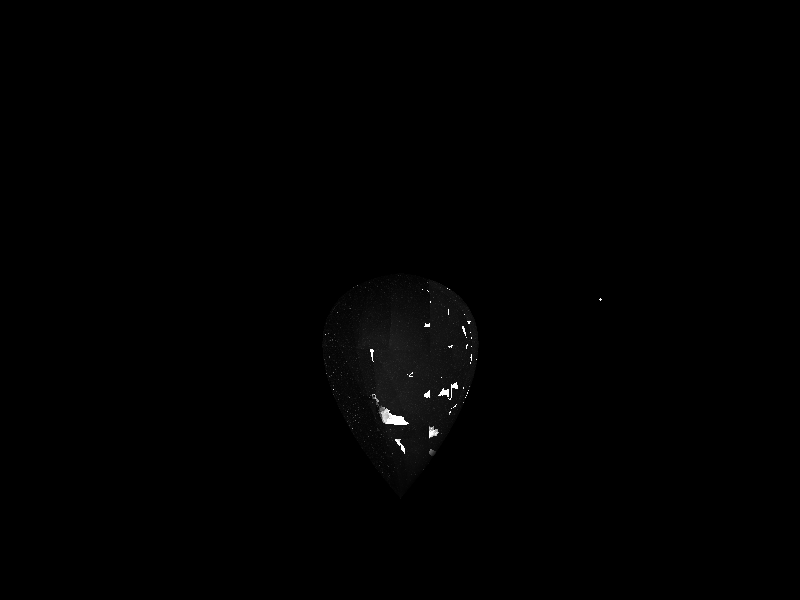
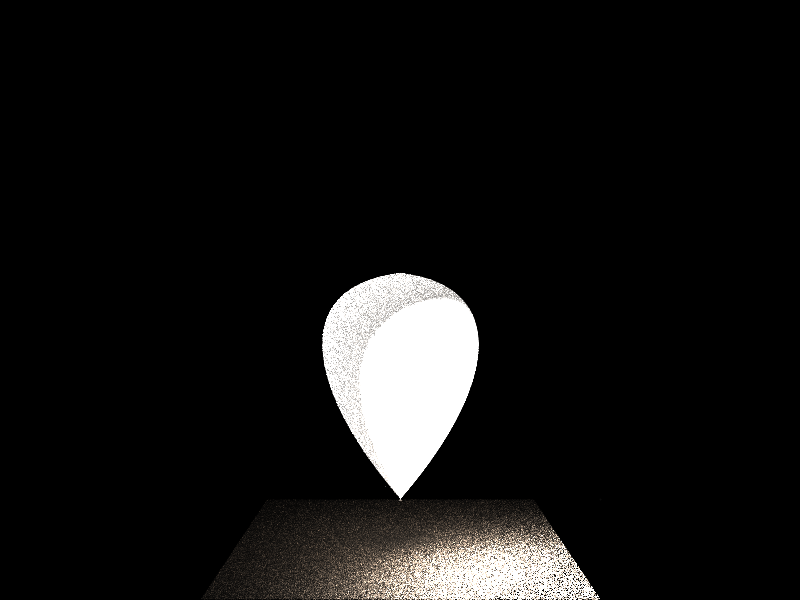
plane

Changed region(s): [[0.25, 0.45, 0.75, 1.0]]

diff --git a/src/main.cpp b/src/main.cpp
@@ -30,8 +30,9 @@ int main()
             for (int i = 0; i < RAY_PER_LIGHT; i++)
             {
                 ColoredRay ray(light->color, randSemisphere(randInBall(light->translate, light->radius), light->direction));
-                Trace::trace(surfaces, ray, DEPTH_PER_LIGHT, [](const SurfInterType &inter, const ColoredRay &ray, int) {
-                    if (inter.surf->isLightSource()) return false;
+                Trace::trace(surfaces, ray, DEPTH_PER_LIGHT, [](const SurfInterType &inter, const ColoredRay &ray, int depth) {
+                    if (inter.surf->isLightSource())
+                        return false;
                     const_cast<Surface*>(inter.surf)->photonMap->addRay(ColoredRay(ray.color, Ray(inter.pos, ray.ray.dir)));
                     // `st` must be on the surface
                     return true;
@@ -48,11 +49,14 @@ int main()
     for (int i = 0; i < SCREEN_WIDTH; i++)
         for (int j = 0; j < SCREEN_HEIGHT; j++)
         {
-            ColoredRay ray(
-                Vec3(1, 1, 1),
-                Ray(Vec3(0, -1000, 0), Vec3((i - SCREEN_WIDTH * 0.5) * RES_ANGLE, 1, (j - SCREEN_HEIGHT * 0.5) * RES_ANGLE))
-            );
             for (int k = 0; k < RAY_PER_PIXEL; k++)
+            {
+                float _i = i + rand01() - 0.5;
+                float _j = j + rand01() - 0.5;
+                ColoredRay ray(
+                    Vec3(1, 1, 1),
+                    Ray(Vec3(0, -1000, 0), Vec3((_i - SCREEN_WIDTH * 0.5) * RES_ANGLE, 1, (_j - SCREEN_HEIGHT * 0.5) * RES_ANGLE))
+                );
                 Trace::trace(surfaces, ray, DEPTH_PER_PIXEL, [i,j](const SurfInterType &inter, const ColoredRay &ray, int depth) {
                     if (inter.surf->isLightSource())
                     {
@@ -72,9 +76,9 @@ int main()
                     screenColor[i][j] += multiple(color, ray.color);
                     return true;
                 });
-            screenWeight[i][j] = RAY_PER_PIXEL * DEPTH_PER_PIXEL;
+            }
+            screenWeight[i][j] = RAY_PER_PIXEL * (DEPTH_PER_PIXEL + 1);
         }
-    // TODO: check if lights directly go into screen or the contrary
     
     std::cout << "Final output" << std::endl;
     for (int i = 0; i < SCREEN_WIDTH; i++)

diff --git a/src/surface.cpp b/src/surface.cpp
@@ -3,12 +3,12 @@
 #include <fstream>
 #include "const.h"
 #include "curve/bezier3.h"
+#include "surface/square.h"
 #include "surface/lightsource.h"
 #include "surface/axisymmetric.h"
 
 void Surface::init()
 {
-    photonMap = std::unique_ptr<PhotonMap>(new PhotonMap(*this));
     boxTree = std::unique_ptr<BoxTree>(new BoxTree(*this));
 }
 
@@ -30,6 +30,12 @@ std::vector< std::unique_ptr<Surface> > Surface::load(const char filename[])
         std::unique_ptr<Surface> surf(nullptr);
         switch (Name(name))
         {
+        case SQUARE: {
+            float edge;
+            is >> edge;
+            surf = std::unique_ptr<Surface>(new Square(edge));
+            break;
+        }
         case SYM_BEZIER3: {
             Vec2 p0, p1, p2, p3;
             is >> p0 >> p1 >> p2 >> p3;
@@ -41,6 +47,7 @@ std::vector< std::unique_ptr<Surface> > Surface::load(const char filename[])
             color_t color;
             float radius;
             is >> radius >> color >> direction;
+            color *= 1.0f / RAY_PER_LIGHT;
             surf = std::unique_ptr<Surface>(new LightSource(radius, color, direction));
             break;
         }
@@ -51,6 +58,7 @@ std::vector< std::unique_ptr<Surface> > Surface::load(const char filename[])
         {
             is >> material;
             surf->material = std::unique_ptr<Material>(new Material(Material::byName(Material::MaterialName(material))));
+            surf->photonMap = std::unique_ptr<PhotonMap>(new PhotonMap(*surf));
         }
         is >> surf->translate;
         surf->init();

diff --git a/src/surface/square.h b/src/surface/square.h
@@ -1,0 +1,45 @@
+#ifndef SQUARE_H_
+#define SQUARE_H_
+
+#include "../utils.h"
+#include "../const.h"
+#include "../surface.h"
+#include "../intersection.h"
+
+/** Square on x-y plane
+ *  Upwards means outwards
+ */
+class Square : public Surface
+{
+private:
+    float edge;
+
+protected:
+    void init() override {} /// Do nothing because findInter is overrided
+    Vec3 positionImpl(float u, float v) const override { return Vec3(u * edge, v * edge, 0); }
+    Vec3 derivativeUImpl(float u, float v) const override { return Vec3(1, 0, 0); }
+    Vec3 derivativeVImpl(float u, float v) const override { return Vec3(0, 1, 0); }
+
+    Box3 xyzMinMaxImpl(float u1, float u2, float v1, float v2) const override
+    {
+        return Box3(u1 * edge, u2 * edge, v1 * edge, v2 * edge, 0, 0);
+    }
+
+public:
+    Square(float _edge) : edge(_edge) {}
+
+    bool uIsCircular() const override { return false; }
+    bool vIsCircular() const override { return false; }
+
+    Optional<SurfInterType> findInter(const Ray &ray) const override
+    {
+        auto interOpt = intersecXY(translate.z, Box2(translate.x, edge + translate.x, translate.y, edge + translate.y), ray);
+        if (!interOpt.isOk()) return None();
+        auto inter(interOpt.ok());
+        if (inter.second < EPS) return None();
+        return SurfInterType(this, inter.second, inter.first, Vec3(0, 0, 1));
+    }
+};
+
+#endif // SQUARE_H_
+

diff --git a/src/intersection.cpp b/src/intersection.cpp
@@ -6,7 +6,7 @@
 Optional<InterType> intersecYZ(float x, const Box2 &box, const Ray &ray)
 {
     float t((x - ray.st.x) / ray.dir.x);
-    assert(t >= 0);
+    if (!std::isfinite(t)) return None();
     Vec3 p(ray.st + t * ray.dir);
     if (box.contains(Vec2(p.y, p.z)))
         return InterType(p, t);
@@ -17,7 +17,7 @@ Optional<InterType> intersecYZ(float x, const Box2 &box, const Ray &ray)
 Optional<InterType> intersecXZ(float y, const Box2 &box, const Ray &ray)
 {
     float t((y - ray.st.y) / ray.dir.y);
-    assert(t >= 0);
+    if (!std::isfinite(t)) return None();
     Vec3 p(ray.st + t * ray.dir);
     if (box.contains(Vec2(p.x, p.z)))
         return InterType(p, t);
@@ -28,7 +28,7 @@ Optional<InterType> intersecXZ(float y, const Box2 &box, const Ray &ray)
 Optional<InterType> intersecXY(float z, const Box2 &box, const Ray &ray)
 {
     float t((z - ray.st.z) / ray.dir.z);
-    assert(t >= 0);
+    if (!std::isfinite(t)) return None();
     Vec3 p(ray.st + t * ray.dir);
     if (box.contains(Vec2(p.x, p.y)))
         return InterType(p, t);

diff --git a/src/trace.cpp b/src/trace.cpp
@@ -59,11 +59,11 @@ Vec3 Trace::colorFactor(const Vec3 &ray1, const Vec3 &ray2, const SurfInterType 
     auto refrection(refrectDir(ray1, norm, refrIdx));
     color_t ret(0, 0, 0);
     Vec3 uniRay2 = ray2 * (1.0f / sqrtf(ray2.dist2()));
-    ret += mat.Creflec * std::max(0.0f, mat.Kd * dot(uniRay2, norm));
-    ret += mat.Creflec * std::max(0.0f, mat.Ks * powf(dot(uniRay2, reflection), mat.Sn));
-    ret += mat.Ctrans * std::max(0.0f, mat.Ktd * dot(uniRay2, -norm));
+    ret += mat.Creflec * std::max(0.0f, mat.Kd * -dot(uniRay2, norm));
+    ret += mat.Creflec * std::max(0.0f, mat.Ks * powf(-dot(uniRay2, reflection), mat.Sn));
+    ret += mat.Ctrans * std::max(0.0f, mat.Ktd * -dot(uniRay2, norm));
     if (refrection.isOk())
-        ret += mat.Ctrans * std::max(0.0f, mat.Kts * powf(dot(uniRay2, refrection.ok()), mat.Sn));
+        ret += mat.Ctrans * std::max(0.0f, mat.Kts * powf(-dot(uniRay2, refrection.ok()), mat.Sn));
     return ret;
 }
 

diff --git a/src/utils/random.h b/src/utils/random.h
@@ -21,12 +21,11 @@ inline Ray randSemisphere(const Vec3 &st, const Vec3 &norm, int n = 1)
     return Ray(st, dir);
 }
 
-/// Random point in a ball
+/// Random point on a ball
 inline Vec3 randInBall(const Vec3 &center, float radius)
 {
     float phi = rand01() * 2 * PI;
     float theta = rand01() * PI;
-    float r = rand01() * radius;
-    return center + Vec3(sinf(theta) * cosf(phi), sinf(theta) * sinf(phi), cosf(theta)) * r;
+    return center + Vec3(sinf(theta) * cosf(phi), sinf(theta) * sinf(phi), cosf(theta)) * radius;
 }
 

diff --git a/src/boxtree.cpp b/src/boxtree.cpp
@@ -57,6 +57,7 @@ Optional<SurfInterType> BoxTree::findInter(const Ray &ray)
 Optional<SurfInterType> BoxTree::findInterRecur(const Ray &ray, const std::unique_ptr<Node> &node, const InterType &inter)
 {
     assert(intersec(node->box, ray).isOk());
+    assert(inter.second >= 0);
     if (node->slideBy == Node::LEAF)
         return intersec(inter.second, (node->u1 + node->u2) * 0.5, (node->v1 + node->v2) * 0.5, inter.first, surf, ray);
     assert(node->l && node->r);

diff --git a/src/material.h b/src/material.h
@@ -29,7 +29,7 @@ struct Material
         case GLASS:
             return { 0.01, 0.05, 0.20, 0.60, 1.6, 4, color_t(1.0, 1.0, 1.0), color_t(1.0, 1.0, 1.0) };
         case PLASTIC:
-            return { 0.20, 0.03, 0.00, 0.00, 1.0, 3, color_t(1.3, 1.3, 0.7), color_t(1.0, 1.0, 1.0) };
+            return { 0.20, 0.03, 0.00, 0.00, 1.0, 3, color_t(1.1, 1.0, 0.9), color_t(1.0, 1.0, 1.0) };
         default:
             assert(false);
         }

diff --git a/src/const.h b/src/const.h
@@ -22,10 +22,10 @@ const float RES_ANGLE = 1.f / SCREEN_WIDTH; /// Resolution angle of the central 
 
 // QUALITY
 const int DEPTH_PER_LIGHT = 3;
-const int RAY_PER_LIGHT = 10000000;
+const int RAY_PER_LIGHT = 25000000;
 const int DEPTH_PER_PIXEL = 1;
-const int RAY_PER_PIXEL = 20;
-const int KNN_K = 10;
+const int RAY_PER_PIXEL = 50;
+const int KNN_K = 15;
 
 #endif // CONST_H_
 

diff --git a/src/surface.h b/src/surface.h
@@ -29,6 +29,7 @@ public:
     std::unique_ptr<Material> material;
 
     enum Name {
+        SQUARE = 0,
         SYM_BEZIER3 = 1,
         LIGHT_SOURCE = -2,
         INVALID = -1
